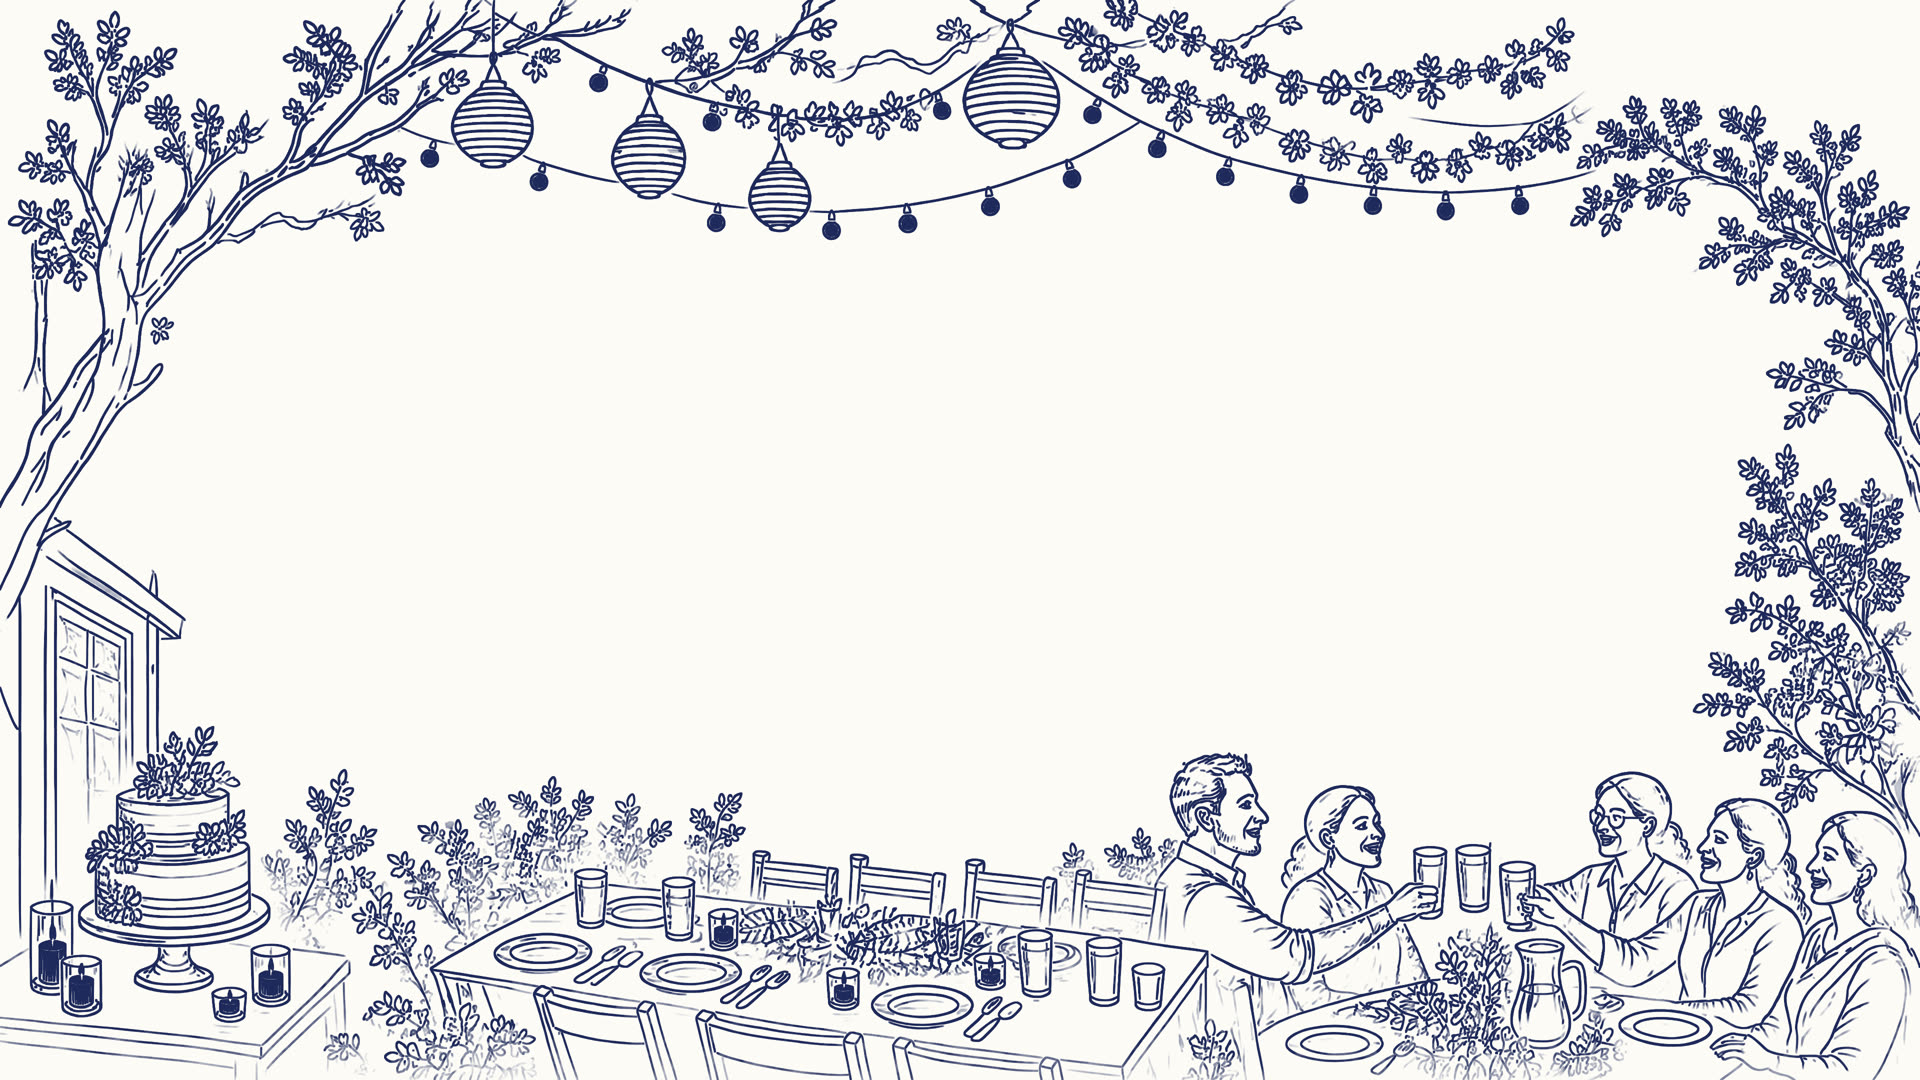
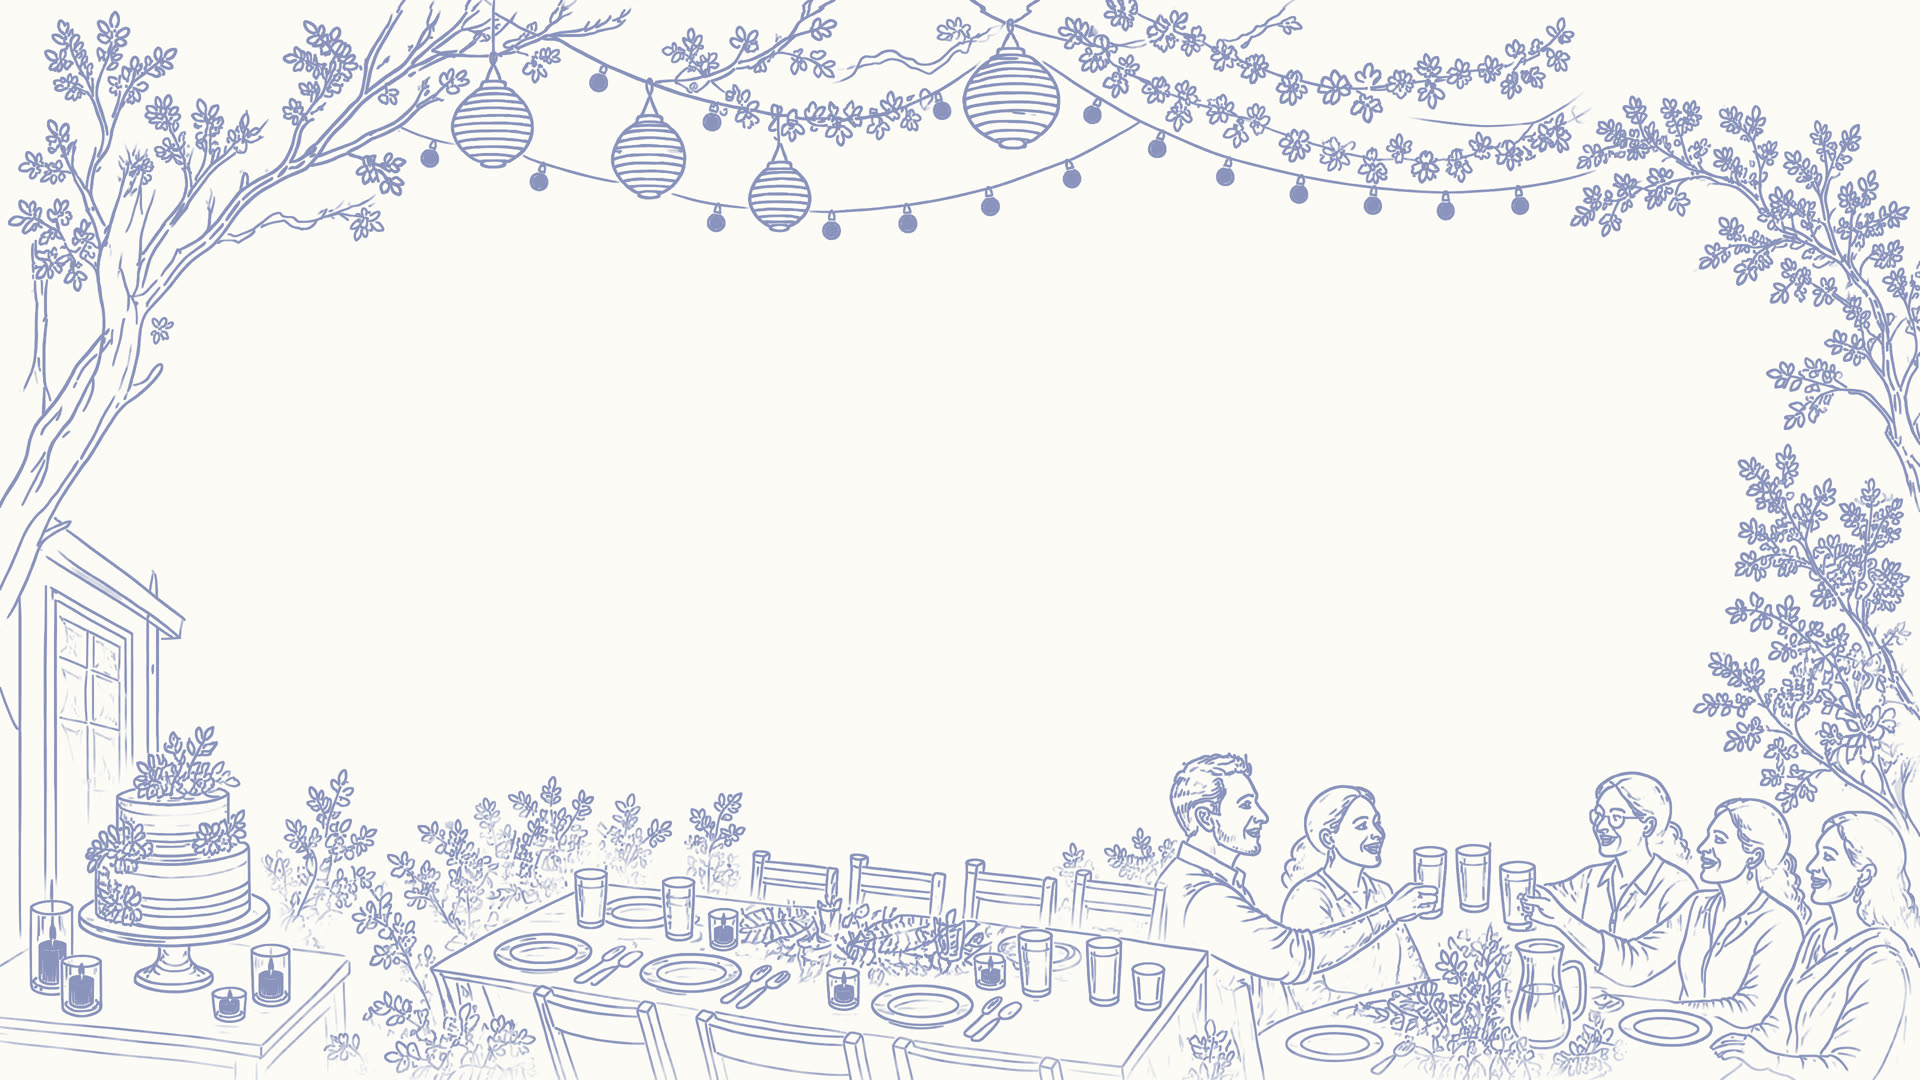
Light mode: a softer blue drawing, so text over it stays clear
The light-mode drawing was solid dark ink blue, close in tone to the
text, so wherever the two met they blurred together. The lines are now
a softer mid-tone blue: still plainly a drawing, but well apart from
the text. The clear area around the public pages' content is a little
larger too. Dark mode is unchanged.

Changed region(s): [[0.0, 0.0, 1.0, 1.0], [0.6562, 0.0, 0.6875, 0.0306]]

diff --git a/src/index.css b/src/index.css
@@ -238,8 +238,8 @@ a { text-underline-offset: 0.2em; }
   position: fixed; inset: 0; z-index: -1; pointer-events: none;
   background: url("/plates/backdrop-1920.jpg") center bottom / cover no-repeat;
   opacity: 0.7;
-  -webkit-mask-image: radial-gradient(72% 70% at 50% 42%, transparent 48%, #000 96%);
-  mask-image: radial-gradient(72% 70% at 50% 42%, transparent 48%, #000 96%);
+  -webkit-mask-image: radial-gradient(74% 72% at 50% 42%, transparent 56%, #000 98%);
+  mask-image: radial-gradient(74% 72% at 50% 42%, transparent 56%, #000 98%);
 }
 :root:not([data-theme="dark"]) .backdrop { background-image: url("/plates/backdrop-light-1920.jpg"); mix-blend-mode: multiply; opacity: 0.85; }
 .backdrop--quiet {
